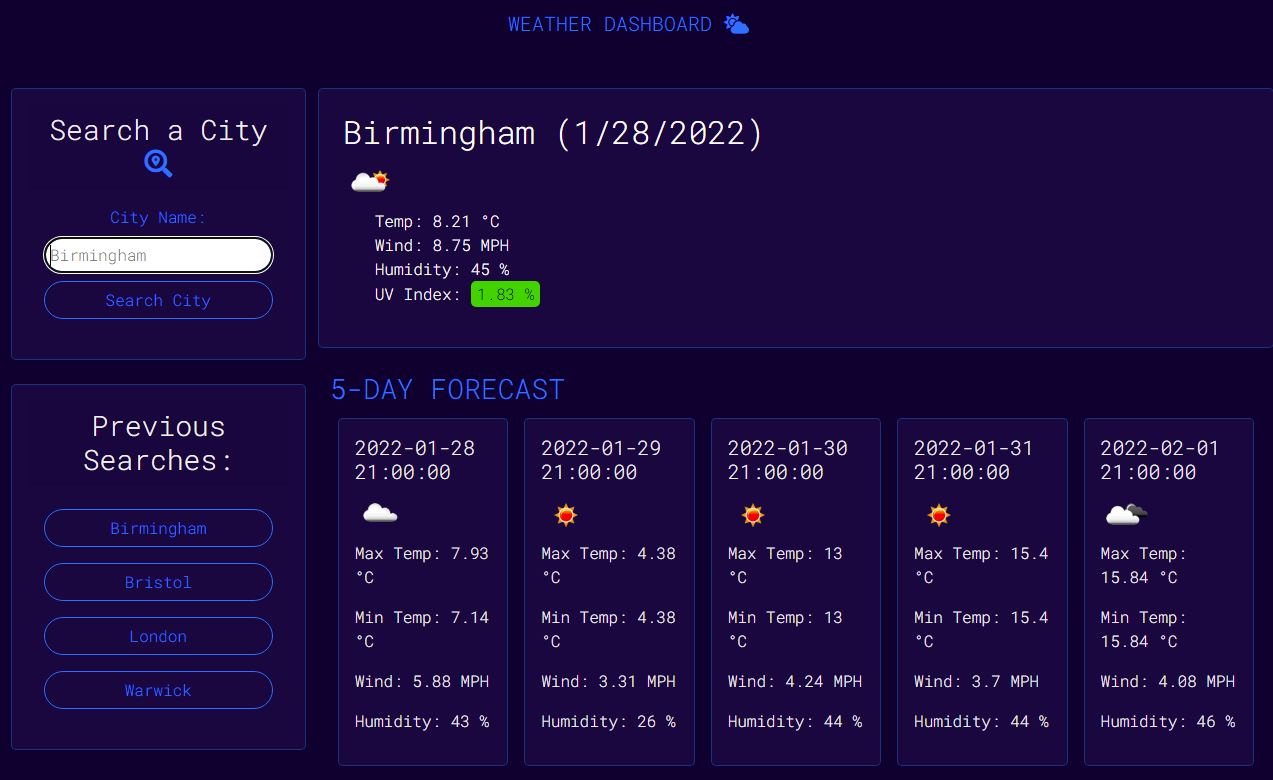
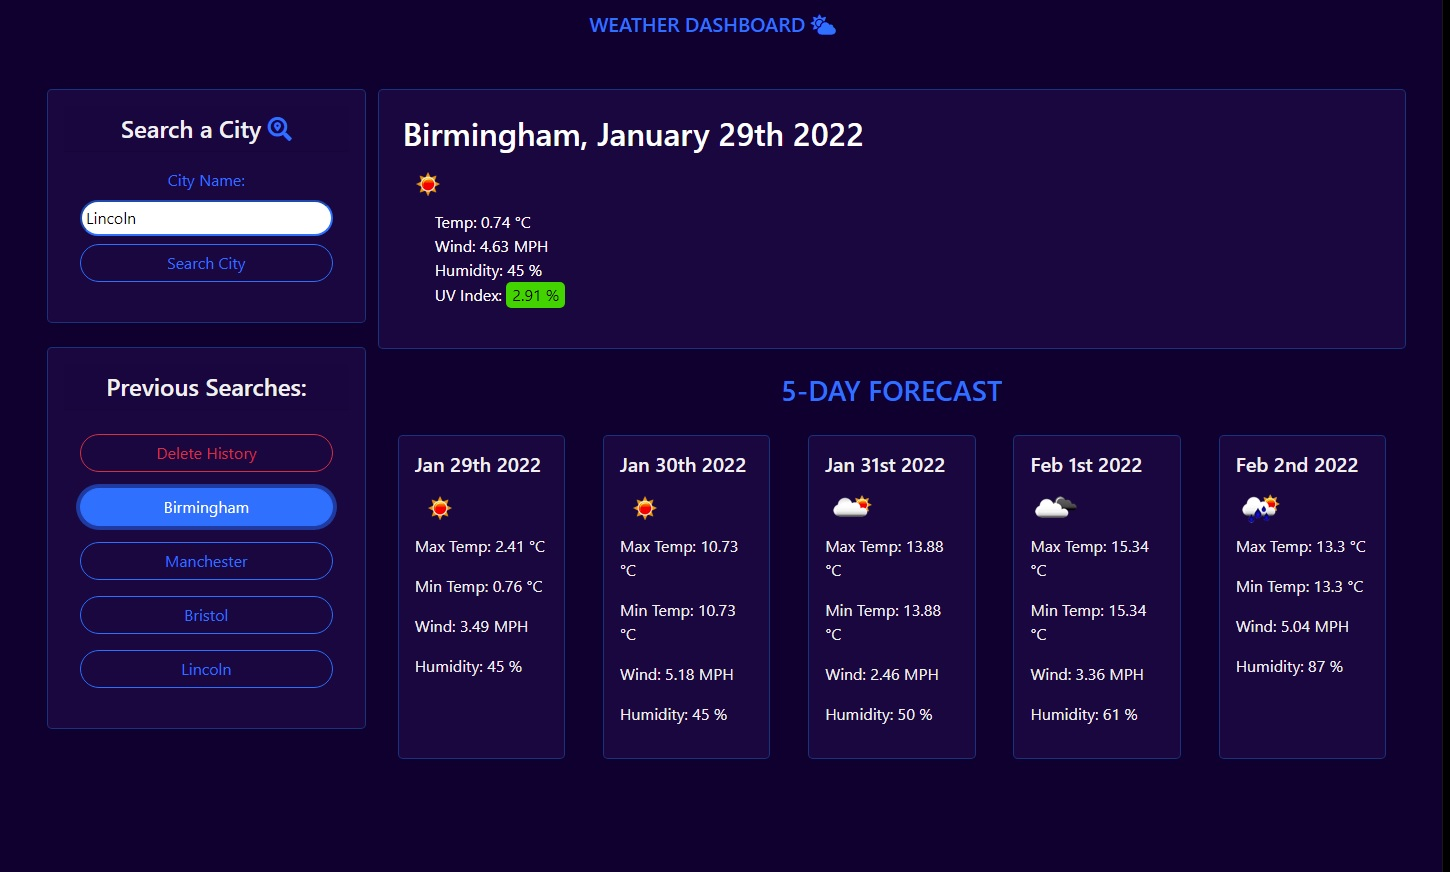
updated readme

diff --git a/index.html b/index.html
@@ -34,7 +34,7 @@
       <div class="row">
         <div class="col-sm-12 col-lg-3  d-flex flex-column ">
           <div class="current-weather-card my-4">
-            <h3 class="card-header text-center">Search a City <i class="fas fa-search-location text-primary"></i></h3>
+            <h3 class="card-header text-center med-text">Search a City <i class="fas fa-search-location text-primary"></i></h3>
             <form id="city-form" class="card-body">
               <div class="d-flex justify-content-between flex-column">
                 <label class="form-label text-primary text-center">City Name: </label>
@@ -55,7 +55,7 @@
           </div>
           <!-- Previous Searches -->
           <div class="current-weather-card">
-            <h3 class="card-header text-center">Previous Searches:</h3>
+            <h3 class="card-header text-center med-text">Previous Searches:</h3>
             <div id="previousSearches" class="card-body">
               <button type="submit" id="deleteBtn" class="btn rounded-pill btn-outline-danger w-100 my-2">
                 Delete History

diff --git a/assets/style.css b/assets/style.css
@@ -32,6 +32,9 @@ li {
   width: 100%;
   margin: 0.5rem 0;
 }
+.med-text {
+  font-size: 1.5rem;
+}
 
 /* UVI Buttons */
 

diff --git a/README.md b/README.md
@@ -35,6 +35,7 @@ THEN I am again presented with current and future conditions for that city
 ## Application Screenshot
 
 ![application-screenshot-1](https://raw.githubusercontent.com/BavKudhail/weather-dashboard/main/assets/images/screenshot.JPG)
+![application-screenshot-2](https://raw.githubusercontent.com/BavKudhail/weather-dashboard/main/assets/images/screenshot-2.JPG)
 
 ## The Learning Loop
 
